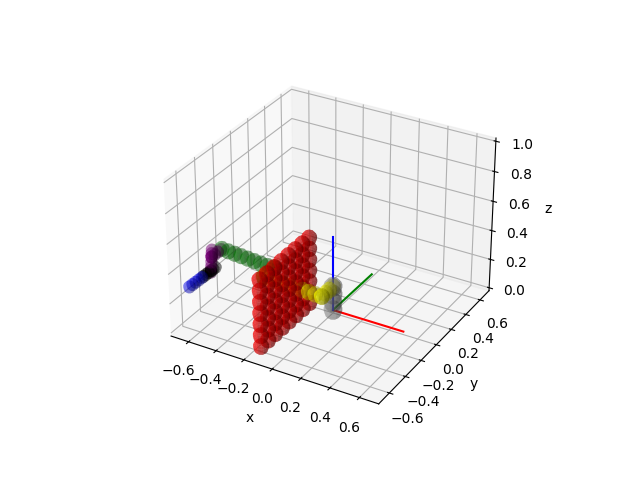
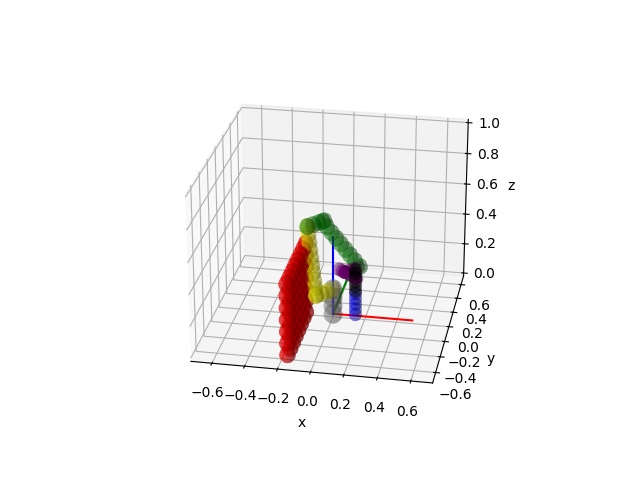
Fix 2.3 images with degrees

Changed region(s): [[0.25, 0.1875, 0.8438, 0.9062], [0.5312, 0.875, 0.5625, 0.9062]]

diff --git a/mp_lab1_python/run.py b/mp_lab1_python/run.py
@@ -20,10 +20,10 @@ def main():
     visualizer = Visualize_UR(ur_params, env=env, transform=transform, bb=bb)
 
     # --------- configurations-------------
-    home = np.deg2rad([-0.694, -1.376, -2.212, -1.122, 1.570, -2.26 ])
+    home = np.array([-0.694, -1.376, -2.212, -1.122, 1.570, -2.26 ])
     
     # ---------------------------------------
-    
+    print(bb.is_in_collision(home))
     visualizer.show_conf(home)
     
    
